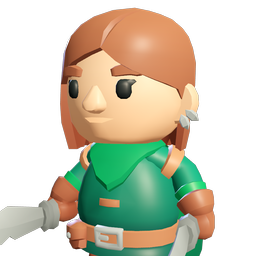
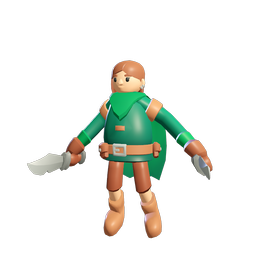
Human proportions for the characters; brighter photographed grass
A skeleton modifier keeps each KayKit figure's blocky body as its centre and
gives it a smaller head, a taller trunk and longer arms and legs, applied after
the animations every frame. --lineup photographs them; portraits redone.

Claude-Session: https://claude.ai/code/session_01K33y3oFCGMCZcYPXpgBrA4

diff --git a/game/scripts/Main.cs b/game/scripts/Main.cs
@@ -40,6 +40,7 @@ public partial class Main : Node3D
         if (Mobile) DisplayServer.ScreenSetOrientation(DisplayServer.ScreenOrientation.SensorLandscape); // landscape from the first frame
         if (_args.TryGetValue("portraits", out var folder)) { _ = Portraits(folder); return; }
         if (_args.TryGetValue("showroom", out var room)) { _ = Showroom(room); return; }
+        if (_args.TryGetValue("lineup", out var line)) { Proportions.Enabled = !_args.ContainsKey("plain"); _ = Lineup(line); return; }
         if (_args.ContainsKey("account") && _args.ContainsKey("server")) { _ = LogInFromCommandLine(); return; }
         var scripted = _args.ContainsKey("selftest") || _args.ContainsKey("shots");
         if (scripted || _args.ContainsKey("server")) { Begin(ChoiceFromArgs()); return; }
@@ -86,9 +87,9 @@ public partial class Main : Node3D
         AddChild(new WorldEnvironment { Environment = new Godot.Environment { BackgroundMode = Godot.Environment.BGMode.Color, BackgroundColor = new Color("#2a2620"), AmbientLightSource = Godot.Environment.AmbientSource.Color, AmbientLightColor = new Color("#b0a898"), AmbientLightEnergy = 0.6f, TonemapMode = Godot.Environment.ToneMapper.Filmic } });
         AddChild(new DirectionalLight3D { RotationDegrees = new Vector3(-30, 35, 0), LightEnergy = 1.3f, LightColor = new Color("#fff0d6") });
         AddChild(new DirectionalLight3D { RotationDegrees = new Vector3(-10, 200, 0), LightEnergy = 0.5f, LightColor = new Color("#a0b8ff") });
-        var camera = new Camera3D { Position = new Vector3(0.25f, 1.15f, 2.6f), Fov = 30 };
+        var camera = new Camera3D { Position = new Vector3(0.35f, 1.25f, 5.2f), Fov = 30 };
         AddChild(camera);
-        camera.LookAt(new Vector3(0, 0.95f, 0), Vector3.Up);
+        camera.LookAt(new Vector3(0, 1.0f, 0), Vector3.Up);
         foreach (var look in new[] { "Knight", "Barbarian", "Mage", "Rogue", "Rogue_Hooded" })
         {
             var figure = Figure.Create(look);
@@ -103,6 +104,39 @@ public partial class Main : Node3D
             figure.QueueFree();
             await ToSignal(GetTree(), SceneTree.SignalName.ProcessFrame);
         }
+        GetTree().Quit();
+    }
+
+    /// <summary>The characters standing in a row, idle and walking, photographed: --lineup /some/folder</summary>
+    async Task Lineup(string folder)
+    {
+        AddChild(new WorldEnvironment { Environment = new Godot.Environment { BackgroundMode = Godot.Environment.BGMode.Color, BackgroundColor = new Color("#8fa6bd"), AmbientLightSource = Godot.Environment.AmbientSource.Color, AmbientLightColor = new Color("#b0a898"), AmbientLightEnergy = 0.7f, TonemapMode = Godot.Environment.ToneMapper.Filmic } });
+        AddChild(new DirectionalLight3D { RotationDegrees = new Vector3(-35, 30, 0), LightEnergy = 1.3f, LightColor = new Color("#fff0d6"), ShadowEnabled = true });
+        AddChild(new MeshInstance3D { Mesh = new PlaneMesh { Size = new Vector2(40, 40) }, MaterialOverride = new StandardMaterial3D { AlbedoColor = new Color("#6b6248") } });
+        string[] looks = ["Knight", "Barbarian", "Mage", "Rogue", "Rogue_Hooded", "guard", "townsfolk", "draugr"];
+        var figures = new List<Figure>();
+        for (var i = 0; i < looks.Length; i++)
+        {
+            var figure = Figure.Create(looks[i]);
+            figure.Position = new Vector3((i - (looks.Length - 1) / 2f) * 1.3f, 0, 0);
+            figure.RotationDegrees = new Vector3(0, 160, 0);
+            AddChild(figure);
+            figures.Add(figure);
+        }
+        var camera = new Camera3D { Position = new Vector3(0, 1.3f, 9f), Fov = 38 };
+        AddChild(camera);
+        camera.LookAt(new Vector3(0, 0.9f, 0), Vector3.Up);
+        async Task Shoot(string name)
+        {
+            for (var i = 0; i < 40; i++) await ToSignal(GetTree(), SceneTree.SignalName.ProcessFrame);
+            GetViewport().GetTexture().GetImage().SavePng($"{folder}/{name}.png");
+        }
+        await Shoot("idle");
+        foreach (var f in figures) f.Move(3.5f, true, false);
+        await Shoot("walking");
+        foreach (var f in figures) f.Attack();
+        for (var i = 0; i < 12; i++) await ToSignal(GetTree(), SceneTree.SignalName.ProcessFrame);
+        GetViewport().GetTexture().GetImage().SavePng($"{folder}/attacking.png");
         GetTree().Quit();
     }
 

diff --git a/game/scripts/Models.cs b/game/scripts/Models.cs
@@ -217,6 +217,8 @@ public partial class Figure : Body
                 Hold(skeleton, "handslot.r", l.RightHand);
                 Hold(skeleton, "handslot.l", l.LeftHand);
             }
+            if (model.FindChildren("*", "Skeleton3D", true, false).OfType<Skeleton3D>().FirstOrDefault() is { } body)
+                body.AddChild(new Proportions());
             f._anim = model.FindChildren("*", "AnimationPlayer", true, false).OfType<AnimationPlayer>().FirstOrDefault();
             if (f._anim is not null)
                 foreach (var name in f._anim.GetAnimationList())
@@ -308,6 +310,61 @@ public partial class Figure : Body
     public override void Talk() => Once("Interact", 1.2);
 
     public override void Mark(Color colour) => Models.Tint(this, colour.Lerp(Colors.White, 0.35f), 0.35f);
+}
+
+/// <summary>
+/// Gives the KayKit characters human proportions, keeping their blocky body as the centre of mass:
+/// a smaller head, a taller trunk, and arms and legs half as long again, so a figure reads as a
+/// person rather than a big head on a box. It runs after the animations each frame, stretching
+/// each limb bone along its length; a stretched bone's children are un-stretched so a hand or
+/// foot keeps its shape, and the hips are raised by however much the legs grew.
+/// </summary>
+public partial class Proportions : SkeletonModifier3D
+{
+    const float Leg = 2.3f, Arm = 1.75f;
+
+    /// <summary>Off draws the characters as KayKit made them (for comparing).</summary>
+    public static bool Enabled { get; set; } = true;
+
+    static readonly Dictionary<string, Vector3> Stretch = new()
+    {
+        ["head"] = Vector3.One * 0.5f,
+        ["spine"] = new(0.92f, 1.3f, 0.92f),
+        ["chest"] = new(1f, 1.15f, 0.95f),
+        ["upperarm.l"] = new(1, Arm, 1), ["lowerarm.l"] = new(1, Arm, 1),
+        ["upperarm.r"] = new(1, Arm, 1), ["lowerarm.r"] = new(1, Arm, 1),
+        ["upperleg.l"] = new(1, Leg, 1), ["lowerleg.l"] = new(1, Leg, 1),
+        ["upperleg.r"] = new(1, Leg, 1), ["lowerleg.r"] = new(1, Leg, 1),
+    };
+
+    Vector3[] _scale = [];
+    int _hips = -1;
+    float _lift;
+
+    void Measure(Skeleton3D s)
+    {
+        _scale = new Vector3[s.GetBoneCount()];
+        for (var i = 0; i < _scale.Length; i++) _scale[i] = Stretch.GetValueOrDefault(s.GetBoneName(i), Vector3.One);
+        _hips = s.FindBone("hips");
+        int lower = s.FindBone("lowerleg.l"), foot = s.FindBone("foot.l");
+        if (lower >= 0 && foot >= 0) _lift = (s.GetBoneRest(lower).Origin.Length() + s.GetBoneRest(foot).Origin.Length()) * (Leg - 1);
+    }
+
+    public override void _ProcessModificationWithDelta(double delta)
+    {
+        if (!Enabled || GetSkeleton() is not { } s) return;
+        if (_scale.Length != s.GetBoneCount()) Measure(s);
+        for (var i = 0; i < _scale.Length; i++)
+        {
+            var parent = s.GetBoneParent(i);
+            var undo = parent >= 0 ? _scale[parent] : Vector3.One;
+            if (undo == Vector3.One && _scale[i] == Vector3.One && i != _hips) continue;
+            var pose = s.GetBonePose(i);
+            var basis = Basis.FromScale(Vector3.One / undo) * pose.Basis * Basis.FromScale(_scale[i]);
+            var origin = i == _hips ? pose.Origin + Vector3.Up * _lift : pose.Origin;
+            s.SetBonePose(i, new Transform3D(basis, origin));
+        }
+    }
 }
 
 /// <summary>A four-legged animal built from shapes, with a trotting gait: skeevers, wolves, bears, mudcrabs.</summary>

diff --git a/tools/polyhaven/grass_card.py b/tools/polyhaven/grass_card.py
@@ -98,7 +98,11 @@ def tuft(raw, out):
         c = c.resize((max(1, int(c.width * scale)), max(1, int(c.height * scale))), Image.Resampling.LANCZOS)
         x = int(512 + rng.uniform(-300, 300) - c.width / 2)
         card.alpha_composite(c, (max(0, min(1024 - c.width, x)), 512 - c.height))
-    card.save(out, optimize=True)
+    # The scan photographs darker than grass reads in daylight: lift it and warm it a little.
+    from PIL import ImageEnhance
+    rgb = ImageEnhance.Color(ImageEnhance.Brightness(card.convert("RGB")).enhance(1.9)).enhance(1.25)
+    rgb.putalpha(card.getchannel("A"))
+    rgb.save(out, optimize=True)
 
 
 if __name__ == "__main__":

diff --git a/game/scripts/Foliage.cs b/game/scripts/Foliage.cs
@@ -54,7 +54,7 @@ public static class Foliage
             var up = new Vector3(0, 0.55f, 0);
             Vector3[] p = [-s, s, s + up, -s + up];
             Vector2[] uv = [new(0, 1), new(1, 1), new(1, 0), new(0, 0)];
-            float[] shade = [0.6f, 0.6f, 1, 1];
+            float[] shade = [0.75f, 0.75f, 1, 1];
             foreach (var i in new[] { 0, 1, 2, 0, 2, 3 })
             {
                 st.SetColor(new Color(shade[i], shade[i], shade[i]));

diff --git a/README.md b/README.md
@@ -393,7 +393,10 @@ lighthouse and ruins come in seeded variants. `godot --path game -- --showroom .
 
 Other 3D models: the KayKit packs by Kay Lousberg (www.kaylousberg.com): Adventurers, Skeletons, Medieval Hexagon,
 Dungeon Remastered and Halloween Bits. They are CC0 (free for any use) and live in `game/assets/kaykit`.
-Wolves, bears, skeevers and mudcrabs are built from shapes in code until animal models arrive.
+Wolves, bears, skeevers and mudcrabs are built from shapes in code until animal models arrive. The KayKit characters are re-proportioned as
+they move (`Proportions` in `Models.cs`): their blocky body stays the centre, with a smaller head and arms and legs
+half as long again, so they stand like people. `godot --path game -- --lineup ./shots` photographs them
+(add `--plain` for the originals).
 
 Earlier FFX prototypes drew on Fahrenheit, the FFX-AP Archipelago client, FFX_TAS_Python, Farplane,
 UnX, VBFExtract and FFXView. None of that code ships here any more.
